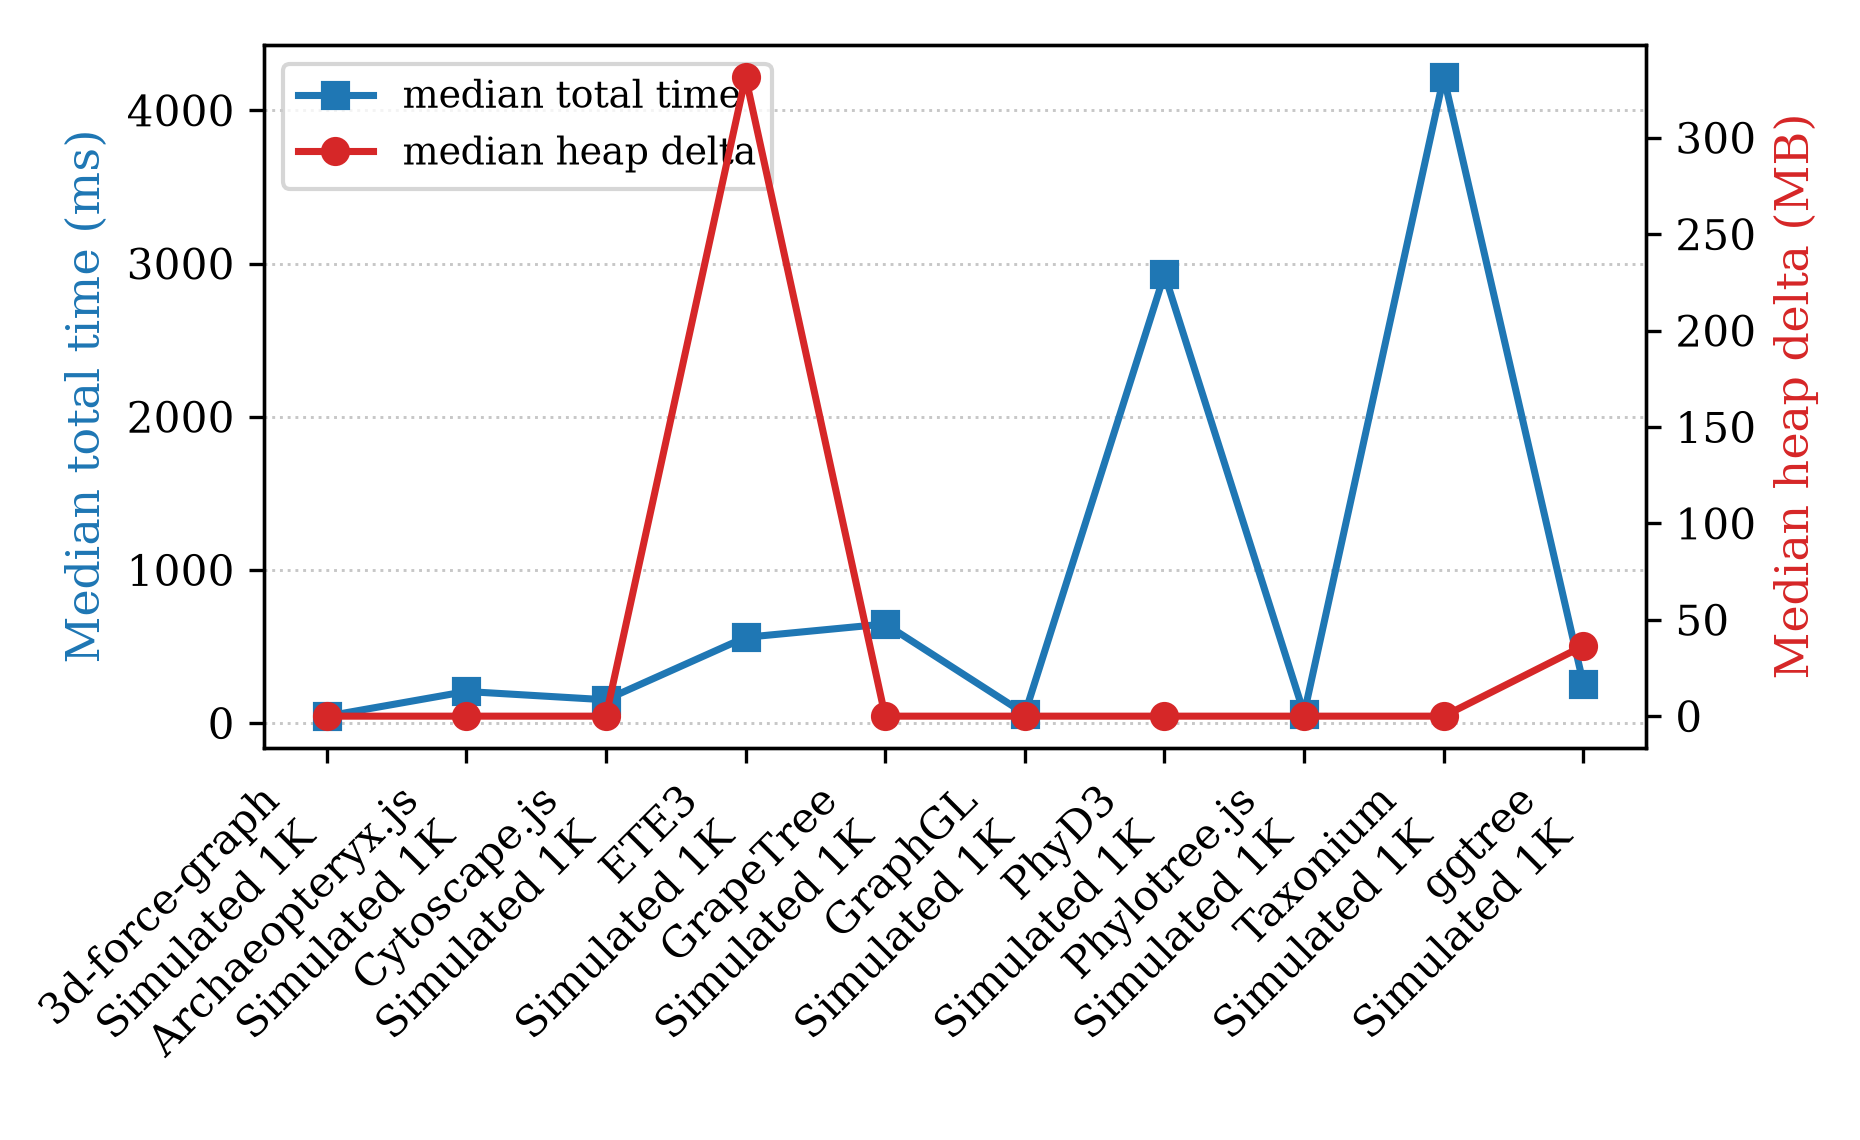
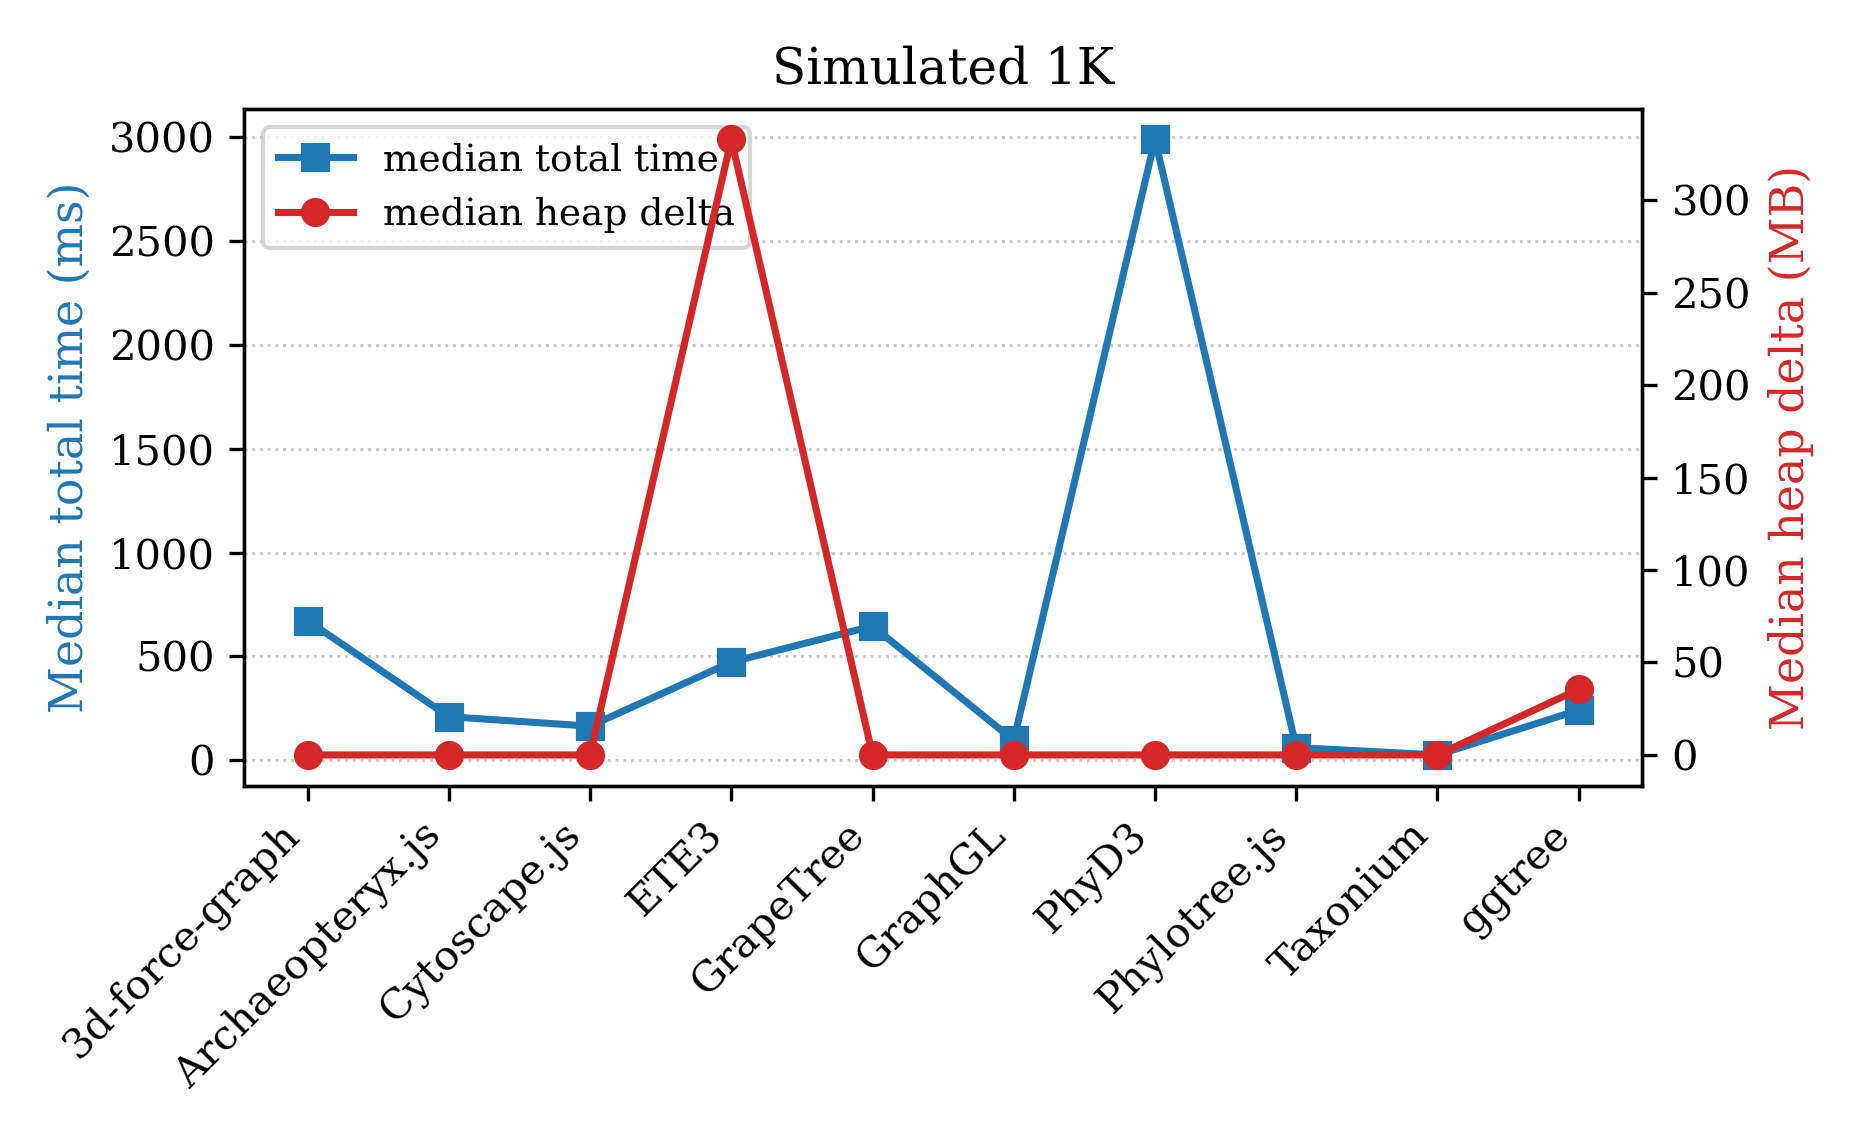
cleaned up plot.py

diff --git a/eval/tables/performance_summary.tex b/eval/tables/performance_summary.tex
@@ -2,15 +2,15 @@
 \hline
 Tool & Dataset & Nodes & Edges & Success & Validated & Total & Render & Memory & Failures \\
 \hline
-Phylotree.js & Simulated 1K & 1999 & 1998 & 1/1 & 1/1 & 61.5 ms & 54.9 ms & 0.0 MB & --- \\
-PhyD3 & Simulated 1K & 1999 & 1998 & 1/1 & 1/1 & 2.93 s & 27.2 ms & 0.0 MB & --- \\
-3d-force-graph & Simulated 1K & 1999 & 1998 & 1/1 & 1/1 & 45.3 ms & 24.4 ms & 0.0 MB & --- \\
-GraphGL & Simulated 1K & 1999 & 1998 & 1/1 & 1/1 & 60.6 ms & 51.8 ms & 0.0 MB & --- \\
-Cytoscape.js & Simulated 1K & 1999 & 1998 & 1/1 & 1/1 & 152.3 ms & 146.2 ms & 0.0 MB & --- \\
-GrapeTree & Simulated 1K & 1999 & 1998 & 1/1 & 1/1 & 647.2 ms & 647.2 ms & 0.0 MB & --- \\
-Taxonium & Simulated 1K & 1999 & 1998 & 1/1 & 1/1 & 4.22 s & 4.22 s & 0.0 MB & --- \\
-Archaeopteryx.js & Simulated 1K & 1999 & 1998 & 1/1 & 1/1 & 206.4 ms & 202.1 ms & 0.0 MB & --- \\
-ETE3 & Simulated 1K & 1999 & 1998 & 1/1 & 1/1 & 560.0 ms & 554.2 ms & 331.6 MB & --- \\
-ggtree & Simulated 1K & 1999 & 1998 & 1/1 & 1/1 & 257.0 ms & 207.0 ms & 36.4 MB & --- \\
+Phylotree.js & Simulated 1K & 1999 & 1998 & 7/7 & 7/7 & 61.7 ms & 56.8 ms & 0.0 MB & --- \\
+PhyD3 & Simulated 1K & 1999 & 1998 & 7/7 & 7/7 & 2.99 s & 54.6 ms & 0.0 MB & --- \\
+3d-force-graph & Simulated 1K & 1999 & 1998 & 7/7 & 7/7 & 672.4 ms & 666.6 ms & 0.0 MB & --- \\
+GraphGL & Simulated 1K & 1999 & 1998 & 7/7 & 7/7 & 96.2 ms & 81.7 ms & 0.0 MB & --- \\
+Cytoscape.js & Simulated 1K & 1999 & 1998 & 7/7 & 7/7 & 164.8 ms & 159.6 ms & 0.0 MB & --- \\
+GrapeTree & Simulated 1K & 1999 & 1998 & 7/7 & 7/7 & 646.2 ms & 646.2 ms & 0.0 MB & --- \\
+Taxonium & Simulated 1K & 1999 & 1998 & 7/7 & 7/7 & 26.3 ms & 23.9 ms & 0.0 MB & --- \\
+Archaeopteryx.js & Simulated 1K & 1999 & 1998 & 7/7 & 7/7 & 210.4 ms & 205.1 ms & 0.0 MB & --- \\
+ETE3 & Simulated 1K & 1999 & 1998 & 7/7 & 7/7 & 472.9 ms & 467.0 ms & 333.0 MB & --- \\
+ggtree & Simulated 1K & 1999 & 1998 & 7/7 & 7/7 & 242.0 ms & 197.0 ms & 35.5 MB & --- \\
 \hline
 \end{tabular}

diff --git a/eval/tables/tool_capability.tex b/eval/tables/tool_capability.tex
@@ -2,15 +2,15 @@
 \hline
 Tool & Datasets attempted & Datasets rendered & Max nodes rendered & Median total at max \\
 \hline
-3d-force-graph & 1 & 1 & 1999 & 45.3 ms \\
-Archaeopteryx.js & 1 & 1 & 1999 & 206.4 ms \\
-Cytoscape.js & 1 & 1 & 1999 & 152.3 ms \\
-ETE3 & 1 & 1 & 1999 & 560.0 ms \\
-GrapeTree & 1 & 1 & 1999 & 647.2 ms \\
-GraphGL & 1 & 1 & 1999 & 60.6 ms \\
-PhyD3 & 1 & 1 & 1999 & 2.93 s \\
-Phylotree.js & 1 & 1 & 1999 & 61.5 ms \\
-Taxonium & 1 & 1 & 1999 & 4.22 s \\
-ggtree & 1 & 1 & 1999 & 257.0 ms \\
+3d-force-graph & 1 & 1 & 1999 & 672.4 ms \\
+Archaeopteryx.js & 1 & 1 & 1999 & 210.4 ms \\
+Cytoscape.js & 1 & 1 & 1999 & 164.8 ms \\
+ETE3 & 1 & 1 & 1999 & 472.9 ms \\
+GrapeTree & 1 & 1 & 1999 & 646.2 ms \\
+GraphGL & 1 & 1 & 1999 & 96.2 ms \\
+PhyD3 & 1 & 1 & 1999 & 2.99 s \\
+Phylotree.js & 1 & 1 & 1999 & 61.7 ms \\
+Taxonium & 1 & 1 & 1999 & 26.3 ms \\
+ggtree & 1 & 1 & 1999 & 242.0 ms \\
 \hline
 \end{tabular}

diff --git a/eval/plot.py b/eval/plot.py
@@ -71,6 +71,19 @@ def load_summary():
     return df
 
 
+def scoped_labels(rows):
+    datasets = {row.dataset for row in rows}
+    tools = {row.tool for row in rows}
+
+    if len(datasets) == 1 and len(tools) == 1:
+        return [next(iter(tools)) for _ in rows], next(iter(datasets))
+    if len(datasets) == 1:
+        return [row.tool for row in rows], next(iter(datasets))
+    if len(tools) == 1:
+        return [row.dataset for row in rows], next(iter(tools))
+    return [f"{row.tool}\n{row.dataset}" for row in rows], ""
+
+
 def plot_scalability(df):
     synthetic = df[df["dataset_group"] == "synthetic"].sort_values("nodes")
     if synthetic.empty:
@@ -110,7 +123,8 @@ def plot_time_memory_tradeoff(df):
     ax_memory = ax_time.twinx()
 
     pivot = memory.sort_values(["nodes", "tool"])
-    labels = [f"{row.tool}\n{row.dataset}" for row in pivot.itertuples()]
+    rows = list(pivot.itertuples())
+    labels, title = scoped_labels(rows)
     x = range(len(pivot))
 
     ax_time.plot(
@@ -132,6 +146,8 @@ def plot_time_memory_tradeoff(df):
 
     ax_time.set_ylabel("Median total time (ms)", color="#1f77b4")
     ax_memory.set_ylabel("Median heap delta (MB)", color="#d62728")
+    if title:
+        ax_time.set_title(title)
     ax_time.tick_params(axis="x", labelrotation=45)
     ax_time.set_xticks(list(x), labels, ha="right")
     ax_time.grid(True, axis="y", linestyle=":", linewidth=0.7, alpha=0.7)